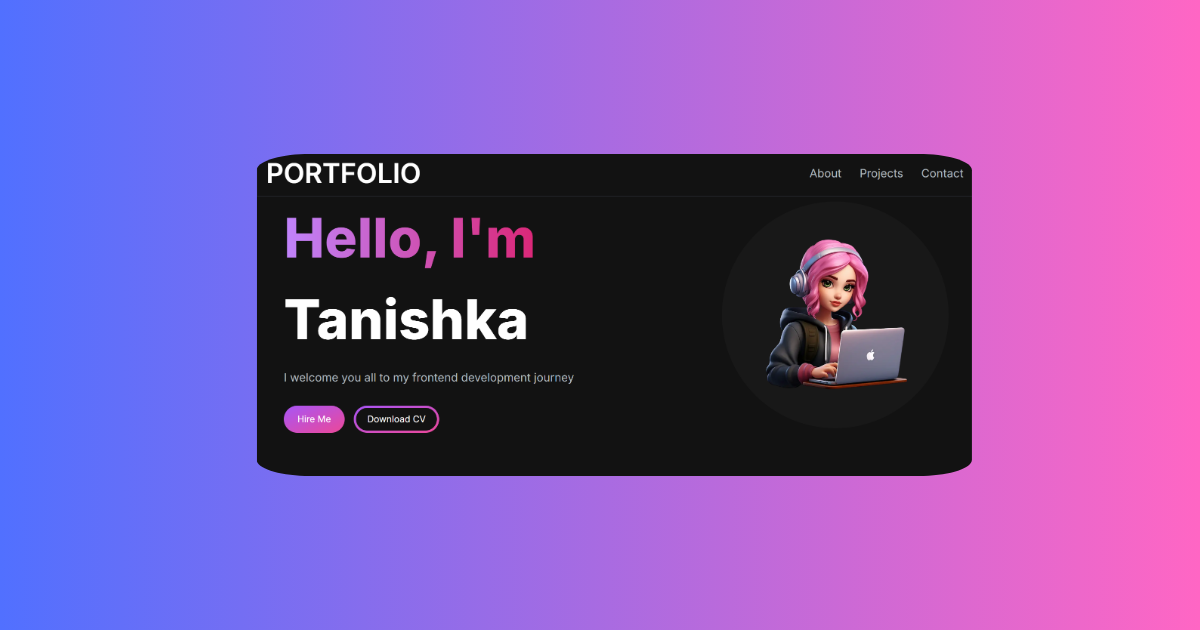
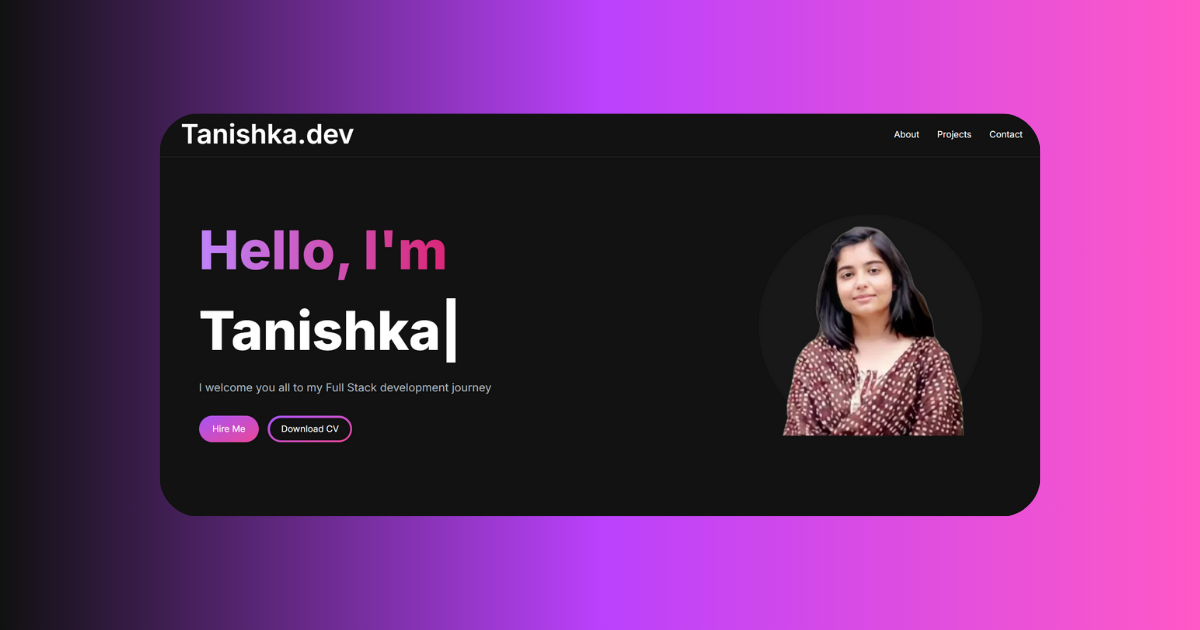
done

diff --git a/src/app/components/ProjectsSection.jsx b/src/app/components/ProjectsSection.jsx
@@ -52,11 +52,11 @@ const projectsData = [
   },
   {
     id: 7,
-    title: "Portfolio",
+    title: "Tanishka.dev",
     description: "Personal Portfolio project",
     image: "/images/projects/6.png",
     tag: ["All", "Web","Mobile"],
-    gitUrl: "",
+    gitUrl: "https://github.com/tanishkasharmaaa",
     previewUrl: "/",
   }
 ];

diff --git a/src/app/components/Navbar.jsx b/src/app/components/Navbar.jsx
@@ -30,7 +30,7 @@ const Navbar = () => {
           href={"/"}
           className="text-2xl md:text-5xl text-white font-semibold"
         >
-          PORTFOLIO
+          Tanishka.dev
         </Link>
         <div className="mobile-menu block md:hidden">
           {!navbarOpen ? (
